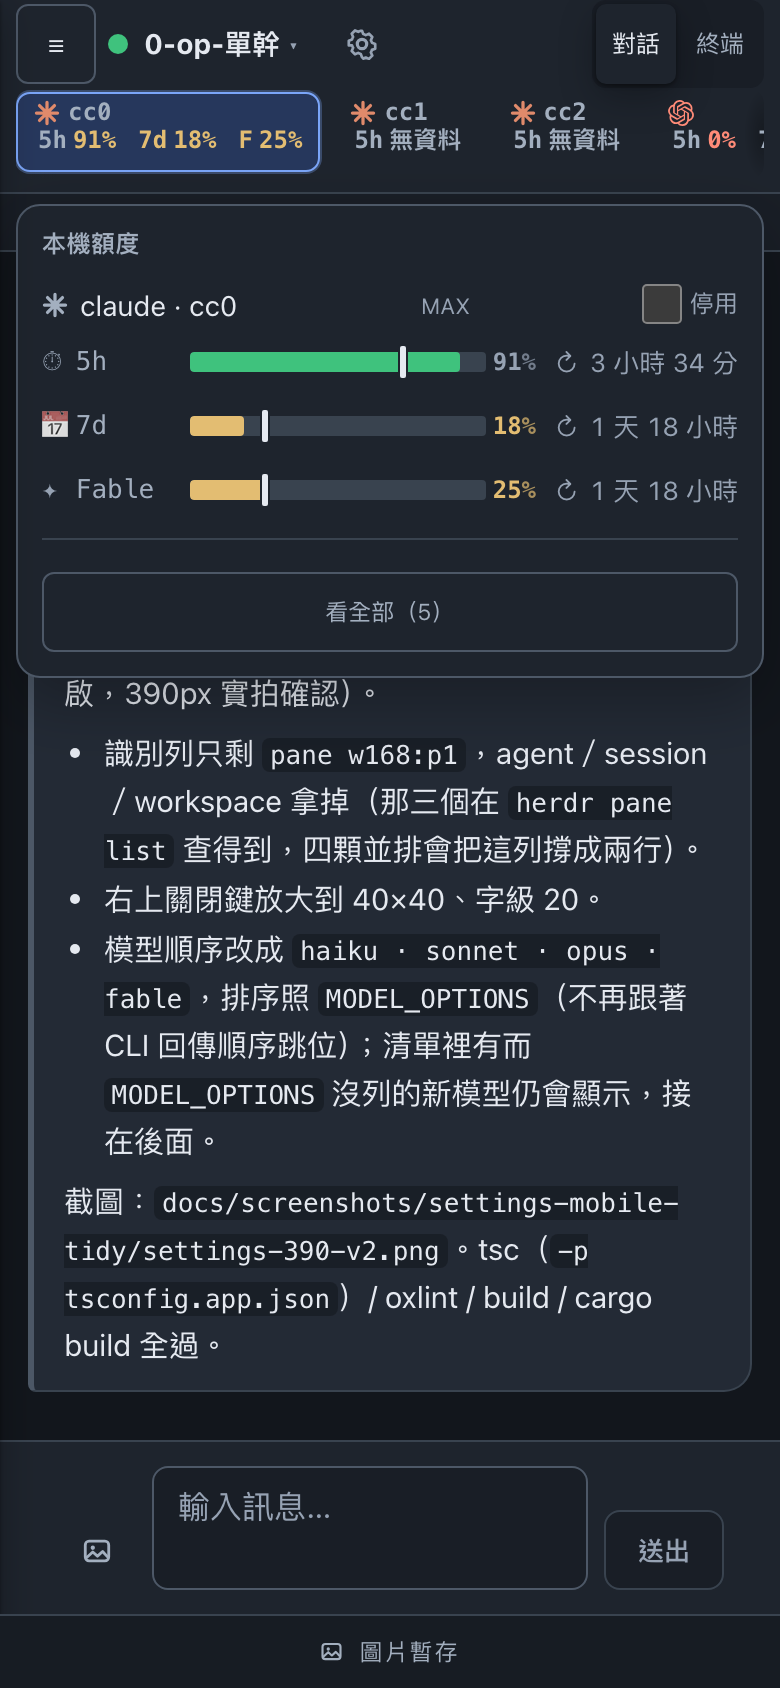
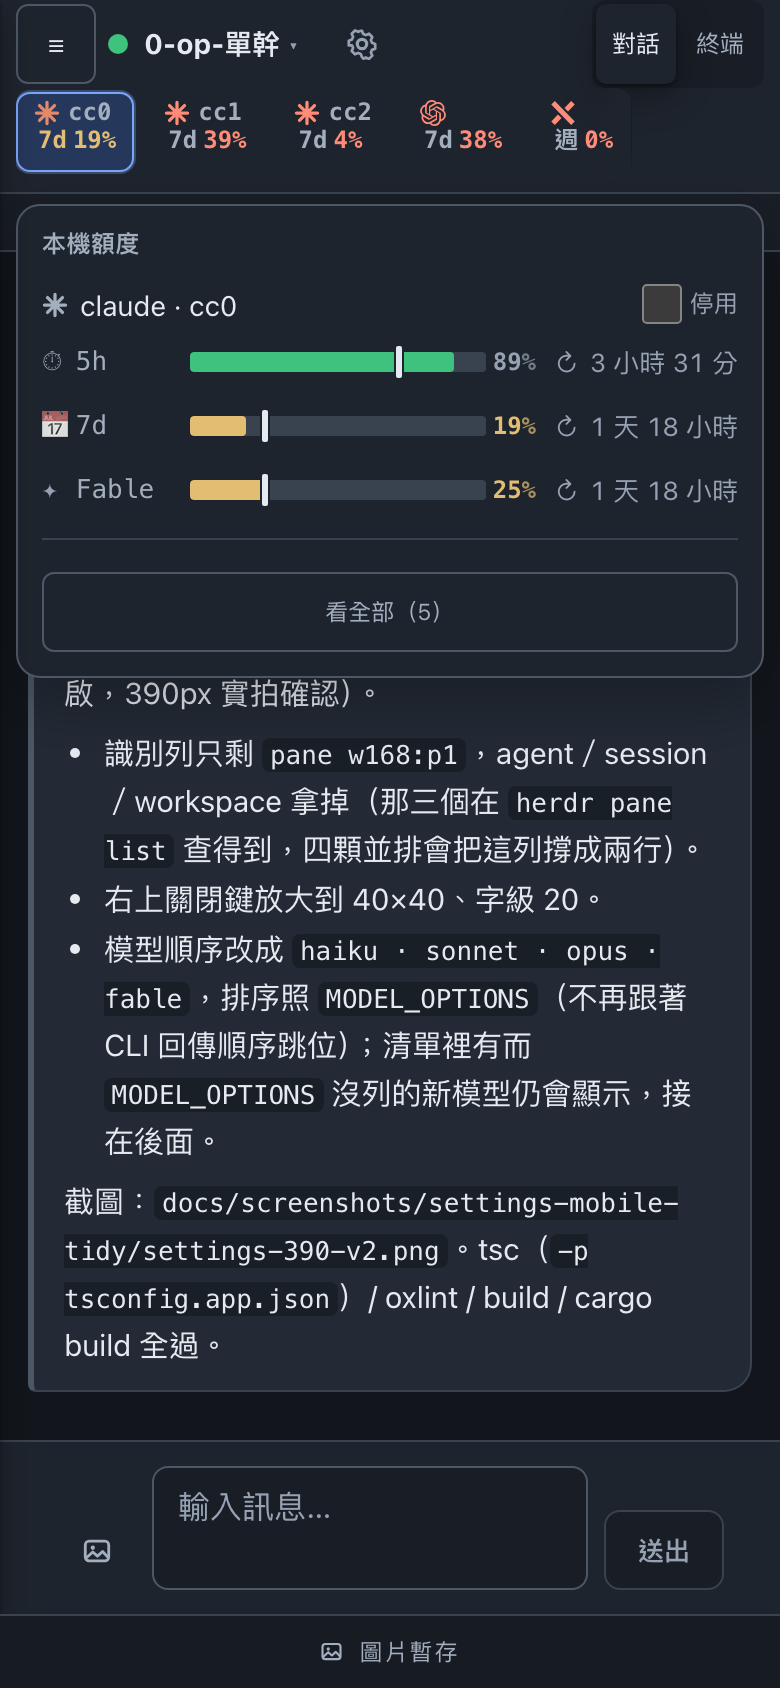
fix(web): 手機的額度 chip 固定寫 7d，不列全部
三個窗口全列會把一顆 chip 撐成三組數字，五個帳號就得一直橫向捲。固定寫 7d
（grok 是「週」）——那是決定今天還能不能開工的數字；沒有 7d 的帳號才退回最
吃緊的那個。5h 與 Fable 點開來看，彈出層裡三條量表都在。

實拍 390px：cc0 7d 19% / cc1 7d 39% / cc2 7d 4% / codex 7d 38% / grok 週 0%
五顆一排放得下，不用捲。

Claude-Session: https://claude.ai/code/session_01X4TuJDthEyYPWqA3oAXWem

diff --git a/web/src/components/QuotaStrip.tsx b/web/src/components/QuotaStrip.tsx
@@ -413,9 +413,20 @@ function Gauge({
   const disabledMap = useDisabledQuota()
   // Named windows so 5h stays above 7d/週; collapsed shows only the worst.
   let windows: WindowBar[]
-  // 手機不收成「最吃緊的那一個」：那樣 5h 一低就把 7d 蓋掉，而 7d 才是決定「今天還能不能開工」
-  // 的那個數字（2026-09-09 使用者：空間夠就常態顯示 7d）。這一列本來就橫向捲，多一組寫得下。
-  if (collapsed && !compact) {
+  // 手機只寫 7d（grok 是「週」）：那是決定「今天還能不能開工」的數字，5h 兩三個小時就回來了。
+  // 收成「最吃緊的那一個」會讓 5h 一低就把 7d 蓋掉；全部列出來又把一顆 chip 撐成三組數字，
+  // 標題列那條就得一直捲（2026-09-09 使用者：只要 7d）。沒有 7d 的帳號才退回最吃緊的那個。
+  if (compact && seven !== null) {
+    windows = [
+      {
+        name: weekLabel(entry.kind),
+        pct: seven,
+        resetsAt: q?.seven_day?.resets_at ?? null,
+        low: q?.seven_day?.low ?? false,
+        critical: q?.seven_day?.critical ?? false,
+      },
+    ]
+  } else if (collapsed) {
     const w = worstWindow(q)
     const src = w.name === '5h' ? q?.five_hour : w.name === 'F' ? q?.fable : q?.seven_day
     windows = [

diff --git a/docs/UI-DECISIONS.md b/docs/UI-DECISIONS.md
@@ -765,11 +765,12 @@ to update`，套用的方式是重啟。原本每顆都要點一次 header 的 `
   絕對時刻要自己跟現在相減才得到答案，而黑針畫的本來就是這段剩餘時間——文字跟圖說同一件事才對得起來。
   格式 `1 天 18 小時` / `3 小時 42 分` / `12 分`；絕對時刻留在 tooltip（跨日、要跟人約時間時才需要）。
 
-### 手機的 chip 不收成「最吃緊的那一個」（2026-09-09）
+### 手機的 chip 固定寫 7d（2026-09-09）
 
-- **決策**：≤640px 的額度 chip 從只寫最差的那個窗口，改成把它回報的每個窗口都寫出來
-  （`5h 91%  7d 18%  F 25%`）。顏色跟著**每個窗口自己**的等級走。
-- **理由（使用者要求）**：5h 一低就把 7d 蓋掉，但 7d 才是決定「今天還能不能開工」的那個數字，
-  而 5h 兩三個小時就回來了。這一列本來就橫向捲，多一組寫得下。
-- 整格上色改成逐窗口上色：一顆 chip 上 5h 綠、7d 黃是常見組合，整格只能挑一個顏色，
-  那就得挑一個說謊。
+- **決策**：≤640px 的額度 chip 固定寫 **7d**（grok 是「週」），不是最吃緊的那個、也不是全部。
+  沒有 7d 的帳號才退回最吃緊的那個。
+- **理由（使用者要求）**：7d 是決定「今天還能不能開工」的數字，5h 兩三個小時就回來了。
+  收成「最吃緊的那一個」會讓 5h 一低就把 7d 蓋掉；三個全列又把一顆 chip 撐成三組數字，
+  五個帳號就得一直橫向捲。固定一個窗口，五顆 chip 在 390px 一排就放得下（實拍）。
+- 其餘窗口（5h、Fable）點開來看：彈出層裡三條量表都在。
+- 顏色仍逐窗口決定（`.quota-compact-win`），因為固定寫 7d 時整格的「最差」可能是別的窗口。
